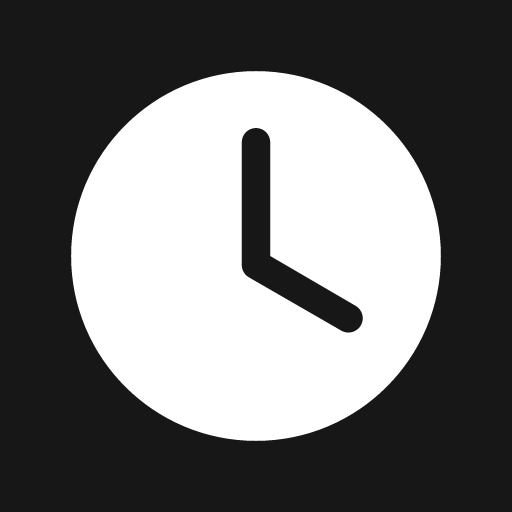
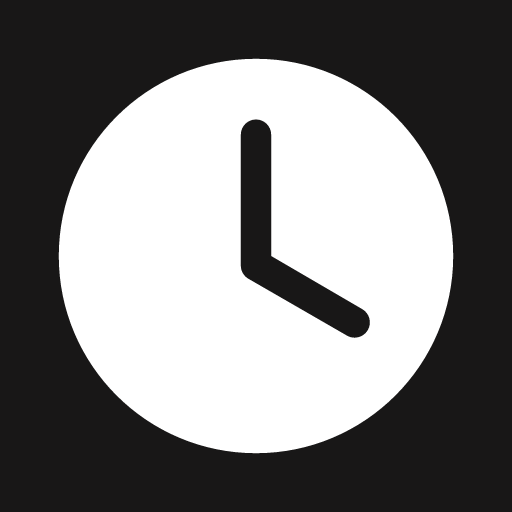
fix(m30): settings bottom padding 88dp

diff --git a/app/src/main/java/com/lucaslu/tickhub/ui/SettingsScreen.kt b/app/src/main/java/com/lucaslu/tickhub/ui/SettingsScreen.kt
@@ -74,7 +74,7 @@ fun SettingsScreen(vm: AppViewModel, onOpenLogs: (() -> Unit)? = null) {
             )
         }
     ) { padding ->
-        Column(modifier = Modifier.fillMaxSize().padding(padding).padding(horizontal = 16.dp).padding(top = 4.dp, bottom = 16.dp).verticalScroll(androidx.compose.foundation.rememberScrollState())) {
+        Column(modifier = Modifier.fillMaxSize().padding(padding).padding(horizontal = 16.dp).padding(top = 4.dp, bottom = 88.dp).verticalScroll(androidx.compose.foundation.rememberScrollState())) {
             fun setHaptic(enabled: Boolean) { vm.setShowExecutionStatus(enabled); com.lucaslu.tickhub.util.Haptics.tick(context) }
             Card(modifier = Modifier.fillMaxWidth(), colors = CardDefaults.cardColors(containerColor = MaterialTheme.colorScheme.surfaceContainer)) {
                 Column(modifier = Modifier.padding(16.dp)) {
